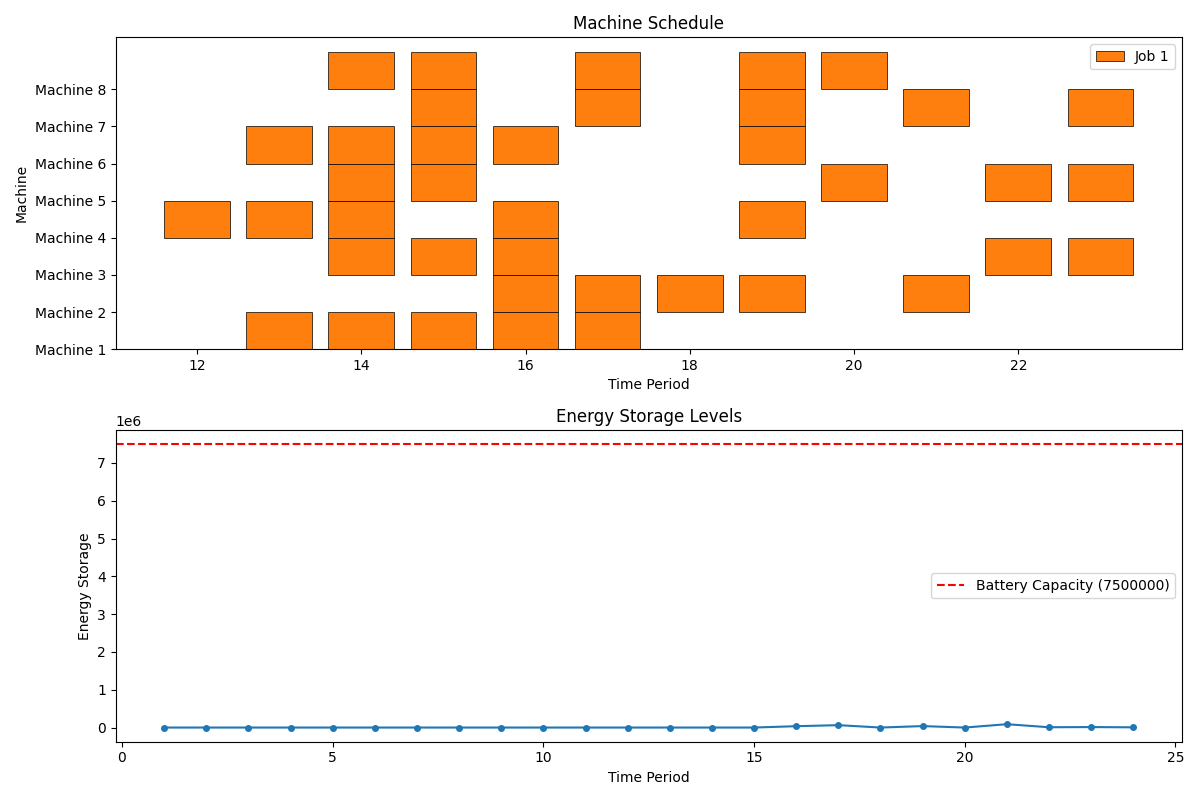
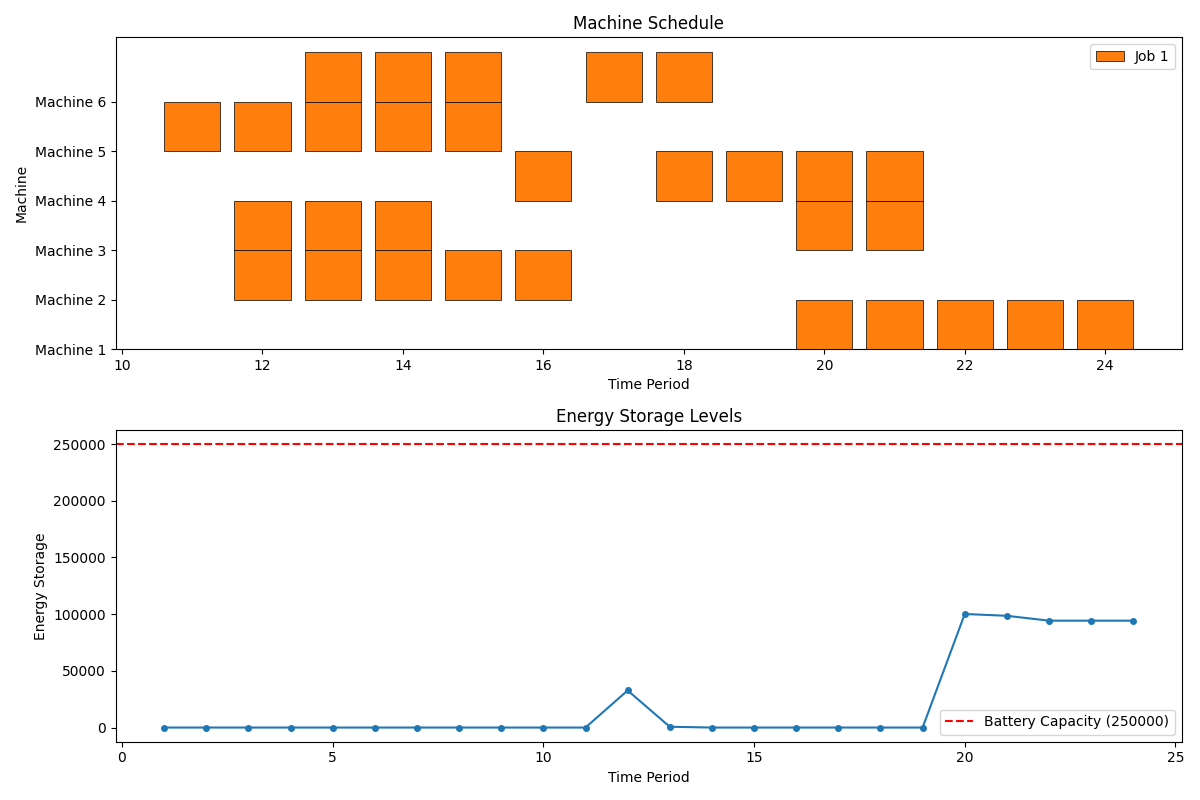
Solved problems in csp

diff --git a/scheduling_problem/csp_4_1_lin_prog.py b/scheduling_problem/csp_4_1_lin_prog.py
@@ -3,8 +3,8 @@ import matplotlib.pyplot as plt
 from combine_data import get_data
 
 # Constants
-M = 1000
-N = 1500
+M = 785
+N = 50
 
 data = get_data()
 
@@ -31,15 +31,15 @@ MACHINES = data["MACHINES"]
 # Create the linear solver
 solver = pywraplp.Solver.CreateSolver('SCIP')
 if not solver:
-    print('Could not create solver SCIP. Trying GLOP...')
-    solver = pywraplp.Solver.CreateSolver('GLOP')
+    print('Could not create solver SCIP. Trying CBC...')
+    solver = pywraplp.Solver.CreateSolver('CBC')
     if not solver:
         print('No suitable solver found.')
         exit()
 
 print(f"Using solver: {solver.SolverVersion()}")
 
-# Variables
+# Variables - Create for ALL i,j,t combinations first
 x = {}
 y = {}
 for i in I:
@@ -53,7 +53,7 @@ s = {t: solver.NumVar(0, solver.infinity(), f's_{t}') for t in T}
 
 print("Variables created...")
 
-# Fix variables for jobs that a machine can't do (matching Pyomo)
+# Fix variables for jobs that a machine can't do (matching Pyomo exactly)
 for i in I:
     for j in J:
         if j > n_jobs[i]:
@@ -64,23 +64,26 @@ for i in I:
 print("Fixed variables for impossible jobs...")
 
 # Constraint 1: Energy balance constraint
-# sum(e[i] * x[i,t,j] + f[i] * y[i,t,j]) - M * p[t] - s[t] <= 0
+# Pyomo: sum(e[i] * m.x[i, t, j] + f[i] * m.y[i, t, j] for i in m.I for j in m.J) - M * p[t] - m.s[t] <= 0
+# Rearranged: sum(e[i] * x[i,t,j] + f[i] * y[i,t,j]) <= M * p[t] + s[t]
 print("Adding energy balance constraints...")
 for t in T:
     constraint = solver.Constraint(-solver.infinity(), M * p[t])
-    constraint.SetCoefficient(s[t], 1)
+    constraint.SetCoefficient(s[t], -1) 
     for i in I:
         for j in J:
             constraint.SetCoefficient(x[i, t, j], e[i])
             constraint.SetCoefficient(y[i, t, j], f[i])
 
 # Constraint 2: Storage computation constraint
+# Pyomo: m.s[t] <= sum(M * p[tp] - sum(e[i] * m.x[i, tp, j] + f[i] * m.y[i, tp, j] for i in m.I for j in m.J) for tp in range(1, t))
 print("Adding storage constraints...")
 for t in T:
     if t == 1:
         solver.Add(s[t] == 0)  # Starting with empty storage
     else:
-        # s[t] <= sum(M * p[tp] - sum(e[i] * x[i,tp,j] + f[i] * y[i,tp,j])) for tp in range(1, t)
+        # s[t] <= sum_{tp=1}^{t-1}[M * p[tp] - sum_{i,j}(e[i] * x[i,tp,j] + f[i] * y[i,tp,j])]
+        # Rearranged: s[t] + sum_{tp=1}^{t-1} sum_{i,j}(e[i] * x[i,tp,j] + f[i] * y[i,tp,j]) <= sum_{tp=1}^{t-1} M * p[tp]
         rhs_value = sum(M * p[tp] for tp in range(1, t))
         constraint = solver.Constraint(-solver.infinity(), rhs_value)
         constraint.SetCoefficient(s[t], 1)
@@ -92,11 +95,13 @@ for t in T:
                     constraint.SetCoefficient(y[i, tp, j], f[i])
 
 # Constraint 3: Battery capacity constraint
+# Pyomo: m.s[t] <= N * B
 print("Adding battery capacity constraints...")
 for t in T:
     solver.Add(s[t] <= N * B)
 
-# Constraint 4: Each job must run for required duration (FIXED VERSION matching Pyomo)
+# Constraint 4: Each job must run for required duration
+# Pyomo: sum(model.x[i, t, j] for t in T) == d[i] (for j <= n_jobs[i])
 print("Adding job requirement constraints...")
 for i in I:
     for j in J:
@@ -106,22 +111,25 @@ for i in I:
                 constraint.SetCoefficient(x[i, t, j], 1)
 
 # Constraint 5: Each machine can do one job at a time
+# Pyomo: sum(m.x[i, t, j] for j in m.J) <= 1
 print("Adding single job constraints...")
 for i in I:
     for t in T:
-        constraint = solver.Constraint(0, 1)
+        constraint = solver.Constraint(-solver.infinity(), 1)
         for j in J:
             constraint.SetCoefficient(x[i, t, j], 1)
 
 # Constraint 6: Same for starting
+# Pyomo: sum(m.y[i, t, j] for j in m.J) <= 1
 print("Adding single start constraints...")
 for i in I:
     for t in T:
-        constraint = solver.Constraint(0, 1)
+        constraint = solver.Constraint(-solver.infinity(), 1)
         for j in J:
             constraint.SetCoefficient(y[i, t, j], 1)
 
 # Constraint 7: Max energy constraint
+# Pyomo: sum(e[i] * m.x[i, t, j] for i in m.I for j in m.J) <= mmm[t]
 print("Adding max energy constraints...")
 for t in T:
     constraint = solver.Constraint(-solver.infinity(), mmm[t])
@@ -130,41 +138,48 @@ for t in T:
             constraint.SetCoefficient(x[i, t, j], e[i])
 
 # Constraint 8: Silent periods for machines
+# Pyomo: sum(model.x[i, t, j] for j in J) == 0
 print("Adding silent period constraints...")
-for i, times in silent_periods.items():
-    for t in times:
-        if t <= T_MAX:
-            constraint = solver.Constraint(0, 0)
-            for j in J:
-                constraint.SetCoefficient(x[i, t, j], 1)
+for i in silent_periods:
+    if i in I:  # Make sure machine i is in our set
+        for t in silent_periods[i]:
+            if t in T and t <= T_MAX:
+                constraint = solver.Constraint(0, 0)
+                for j in J:
+                    constraint.SetCoefficient(x[i, t, j], 1)
 
 # Constraint 9: Shared resource constraint
+# Pyomo: sum(model.x[i, t, j] for i in machines_in_group for j in J) <= 1
 print("Adding shared resource constraints...")
 for t in T:
     for group in M_shared:
         machines_in_group = [i for i in group if i in I]
         if machines_in_group:
-            constraint = solver.Constraint(0, 1)
+            constraint = solver.Constraint(-solver.infinity(), 1)
             for i in machines_in_group:
                 for j in J:
                     constraint.SetCoefficient(x[i, t, j], 1)
 
-# Constraint 10: Start implies run and ensure continuity constraint (FIXED VERSION matching Pyomo)
+# Constraint 10: Start implies run and ensure continuity constraint
+# Pyomo: For t==1: m.x[i, t, j] == m.y[i, t, j]
+#        For t>1:  m.x[i, t, j] <= m.y[i, t, j] + m.x[i, t-1, j]
 print("Adding run-start relation constraints...")
 for i in I:
     for t in T:
         for j in J:
             if t == 1:
-                # For the first time period: x[i,t,j] = y[i,t,j]
+                # x[i,1,j] == y[i,1,j]
                 solver.Add(x[i, t, j] == y[i, t, j])
             else:
-                # For subsequent periods: x[i,t,j] <= y[i,t,j] + x[i,t-1,j]
+                # x[i,t,j] <= y[i,t,j] + x[i,t-1,j]
+                # Rearranged: x[i,t,j] - y[i,t,j] - x[i,t-1,j] <= 0
                 constraint = solver.Constraint(-solver.infinity(), 0)
                 constraint.SetCoefficient(x[i, t, j], 1)
                 constraint.SetCoefficient(y[i, t, j], -1)
                 constraint.SetCoefficient(x[i, t-1, j], -1)
 
 # Constraint 10b: When you start a job, you must run it
+# Pyomo: m.y[i, t, j] <= m.x[i, t, j]
 print("Adding start implies run constraints...")
 for i in I:
     for t in T:
@@ -172,49 +187,50 @@ for i in I:
             solver.Add(y[i, t, j] <= x[i, t, j])
 
 # Constraint 11: Dependency constraint
+# Pyomo: For t==1: model.y[kp1, t, j] == 0
+#        For t>1:  model.y[kp1, t, j] <= prev_completions / d[k]
 print("Adding dependency constraints...")
 for (k, kp1) in M_dependencies:
     if k in I and kp1 in I:
         for t in T:
             for j in J:
-                if t == 1:
-                    solver.Add(y[kp1, t, j] == 0)  # Cannot start dependent job at first time period
-                else:
-                    # Job on machine kp1 can start only if job on machine k was completed
-                    # y[kp1,t,j] <= prev_completions / d[k]
-                    # Rearranged: y[kp1,t,j] * d[k] <= prev_completions
-                    constraint = solver.Constraint(-solver.infinity(), 0)
-                    constraint.SetCoefficient(y[kp1, t, j], d[k])
-                    for tp in range(1, t):
-                        constraint.SetCoefficient(x[k, tp, j], -1)
+                if j <= n_jobs.get(k, 0) and j <= n_jobs.get(kp1, 0):  # Both machines must be able to do job j
+                    if t == 1:
+                        solver.Add(y[kp1, t, j] == 0)
+                    else:
+                        # y[kp1,t,j] <= sum(x[k,tp,j] for tp in range(1,t)) / d[k]
+                        # Rearranged: y[kp1,t,j] * d[k] <= sum(x[k,tp,j] for tp in range(1,t))
+                        constraint = solver.Constraint(-solver.infinity(), 0)
+                        constraint.SetCoefficient(y[kp1, t, j], d[k])
+                        for tp in range(1, t):
+                            constraint.SetCoefficient(x[k, tp, j], -1)
 
-# Constraint 12: Cooldown constraint (FIXED VERSION matching Pyomo)
-print("Adding cooldown constraints...")
+# Constraint 12: Cooldown constraint (simplified version from Pyomo)
+# Pyomo: y[i,t,j] <= cooldown_sum / c[i]
+# Where cooldown_sum = sum(1 - sum(x[i,tp,jj] for jj in J) for tp in range(t-c[i], t))
+print("Adding cooldown constraints...") #TODO
 for i in I:
     for t in T:
         for j in J:
             if t > c[i]:
-                # Can only start if the machine was off for at least c[i] time units
-                # y[i,t,j] <= cooldown_sum / c[i]
-                # Rearranged: y[i,t,j] * c[i] <= cooldown_sum
-                # cooldown_sum = sum(1 - sum(x[i,tp,jj] for jj in J) for tp in range(t-c[i], t))
-                
-                # This is complex due to the (1 - sum(...)) terms
-                # Let's implement a simplified version: machine must be idle for at least 1 period before starting
+                # Simplified: machine must be idle for at least 1 period before starting
                 if t > 1:
+                    # y[i,t,j] + sum(x[i,t-1,jj] for jj in J) <= 1
                     constraint = solver.Constraint(-solver.infinity(), 1)
                     constraint.SetCoefficient(y[i, t, j], 1)
                     for jj in J:
                         constraint.SetCoefficient(x[i, t-1, jj], 1)
 
-# Constraint 13: Job must be completed before threshold (FIXED VERSION matching Pyomo)
+# Constraint 13: Job must be completed before threshold
+# Pyomo: model.x[i, t, j].fix(0) for t > THRESHOLD_FOR_JOB_J_AND_I[(i, j)]
 print("Adding job completion threshold constraints...")
 for i in I:
     for j in J:
         if j <= n_jobs[i]:  # Only apply for required jobs
-            # Fix variables to 0 after threshold
-            for t in range(THRESHOLD_FOR_JOB_J_AND_I[(i, j)] + 1, T_MAX + 1):
-                x[i, t, j].SetBounds(0, 0)  # Fix to 0
+            threshold = THRESHOLD_FOR_JOB_J_AND_I.get((i, j), T_MAX)
+            for t in range(threshold + 1, T_MAX + 1):
+                if t in T:
+                    x[i, t, j].SetBounds(0, 0)  # Fix to 0
 
 print("All constraints added. Starting solve...")
 
@@ -225,6 +241,15 @@ solver.SetTimeLimit(300000)  # 5 minutes timeout
 status = solver.Solve()
 
 print(f"Solver status: {status}")
+status_dict = {
+    pywraplp.Solver.OPTIMAL: "OPTIMAL",
+    pywraplp.Solver.FEASIBLE: "FEASIBLE", 
+    pywraplp.Solver.INFEASIBLE: "INFEASIBLE",
+    pywraplp.Solver.UNBOUNDED: "UNBOUNDED",
+    pywraplp.Solver.ABNORMAL: "ABNORMAL",
+    pywraplp.Solver.NOT_SOLVED: "NOT_SOLVED"
+}
+print(f"Status: {status_dict.get(status, 'UNKNOWN')}")
 
 if status == pywraplp.Solver.OPTIMAL or status == pywraplp.Solver.FEASIBLE:
     print(f"Solution found!")
@@ -236,21 +261,28 @@ if status == pywraplp.Solver.OPTIMAL or status == pywraplp.Solver.FEASIBLE:
     for i in I:
         print(f"\nMachine {i} Schedule:")
         for j in J:
-            start_times = [t for t in T if y[i, t, j].solution_value() > 0.5]
-            operative_times = [t for t in T if x[i, t, j].solution_value() > 0.5]
-            if start_times:
-                print(f"  Job {j} starts at t={start_times}")
-            if operative_times:
-                print(f"  Job {j} operates at t={operative_times}")
-                for t in operative_times:
-                    ax1.bar(t, 1, bottom=i - 1, color=f'C{j % 10}', edgecolor='black', linewidth=0.5)
+            if j <= n_jobs[i]:  # Only check feasible jobs
+                start_times = [t for t in T if y[i, t, j].solution_value() > 0.5]
+                operative_times = [t for t in T if x[i, t, j].solution_value() > 0.5]
+                if start_times:
+                    print(f"  Job {j} starts at t={start_times}")
+                if operative_times:
+                    print(f"  Job {j} operates at t={operative_times}")
+                    for t in operative_times:
+                        ax1.bar(t, 1, bottom=i - 1, color=f'C{j % 10}', edgecolor='black', linewidth=0.5)
 
     ax1.set_xlabel('Time Period')
     ax1.set_ylabel('Machine')
     ax1.set_yticks(range(0, MACHINES))
     ax1.set_yticklabels([f'Machine {i}' for i in I])
     ax1.set_title('Machine Schedule')
-    ax1.legend([f'Job {j}' for j in range(1, min(11, max(J)+1))], loc='upper right')
+    # Create legend for jobs that actually exist
+    legend_jobs = set()
+    for i in I:
+        for j in J:
+            if j <= n_jobs[i]:
+                legend_jobs.add(j)
+    ax1.legend([f'Job {j}' for j in sorted(legend_jobs)], loc='upper right')
 
     print("\nStorage Levels:")
     for t in T:
@@ -282,7 +314,7 @@ else:
     print("Failed to find an optimal solution.")
     print("Possible issues:")
     print("1. Problem is infeasible")
-    print("2. Solver timeout")
+    print("2. Solver timeout") 
     print("3. Numerical issues with constraints")
     
     print(f"\nSolver info:")

diff --git a/scheduling_problem/combine_data.py b/scheduling_problem/combine_data.py
@@ -28,6 +28,7 @@ def get_data():
     print("--------------------------------------\nNILM DATA\n")
 
     machine_names = datasetjson.get_machine_names()
+    machine_names = machine_names[:-2]
     print(f"Machine names: {machine_names}")
     print(f"Machine number: {len(machine_names)}")
 

diff --git a/scheduling_problem/fixed_4_1.py b/scheduling_problem/fixed_4_1.py
@@ -5,8 +5,8 @@ from combine_data import get_data
 
 
 # Output of phase 1
-M = 801
-N = 1500
+M = 785
+N = 50
 
 # Create a concrete model
 model = pyo.ConcreteModel()
